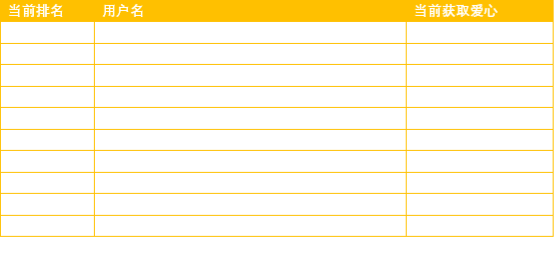
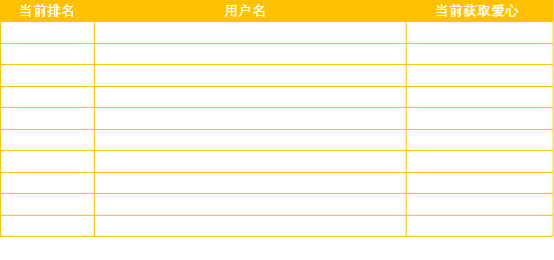
:sparkles: Reverse.

diff --git a/server/src/index.ts b/server/src/index.ts
@@ -305,15 +305,11 @@ async function drawRankTable() {
     const columnLeftMargins = [0, 94, 94 + 310]
     const columnWidths = [94, 310, 145]
     ctx.font = `${fontHeight}px Microsoft Yahei`
+    ctx.fillStyle = '#000000'
 
     let rowNumber = 1
     for (const row of table) {
         let columnNumber = 0
-        if (row[2] < heartMin[rowNumber - 1]) {
-            ctx.fillStyle = '#777777'
-        } else {
-            ctx.fillStyle = '#000000'
-        }
         for (const cell of row) {
             ctx.fillText(cell.toString(),
                 columnLeftMargins[columnNumber] + (columnWidths[columnNumber] - ctx.measureText(cell.toString()).width) / 2,
